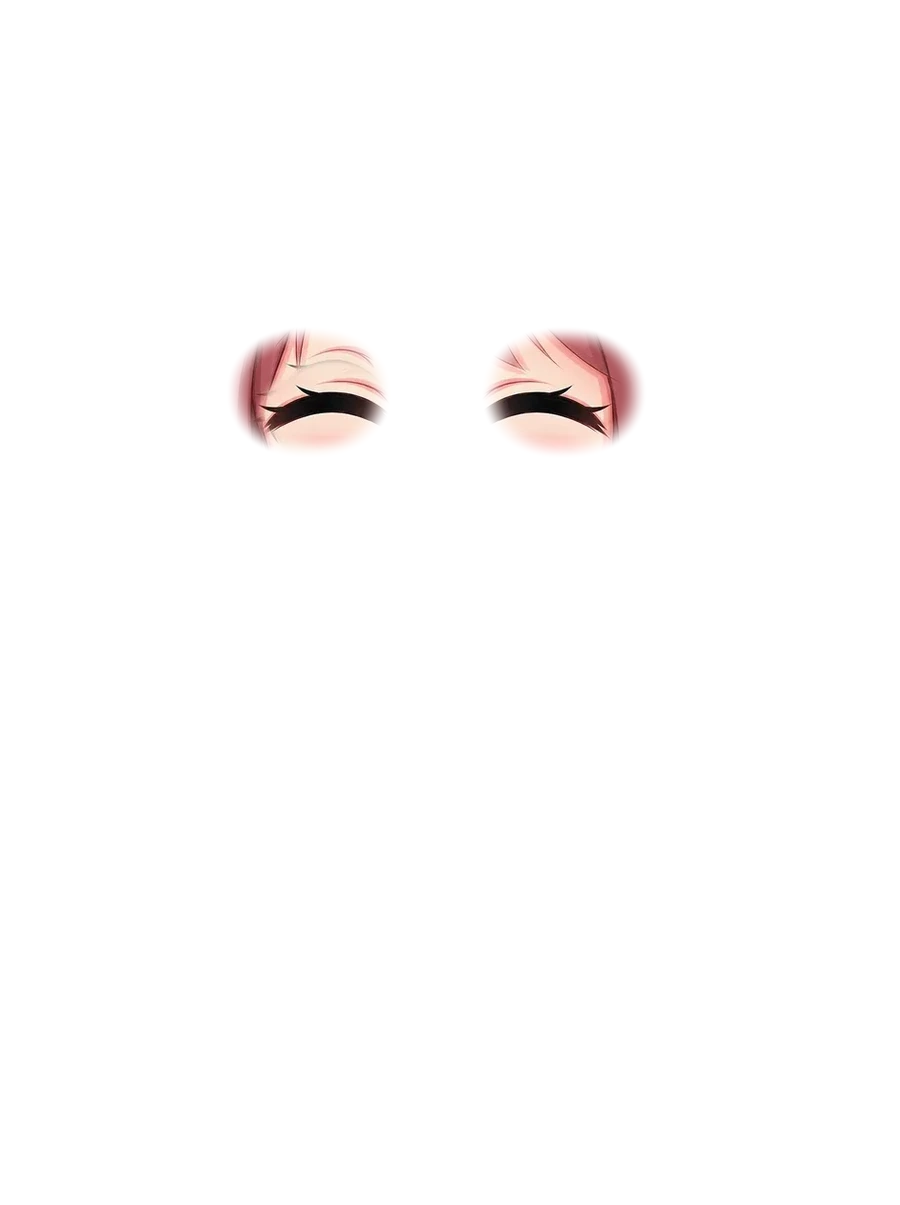
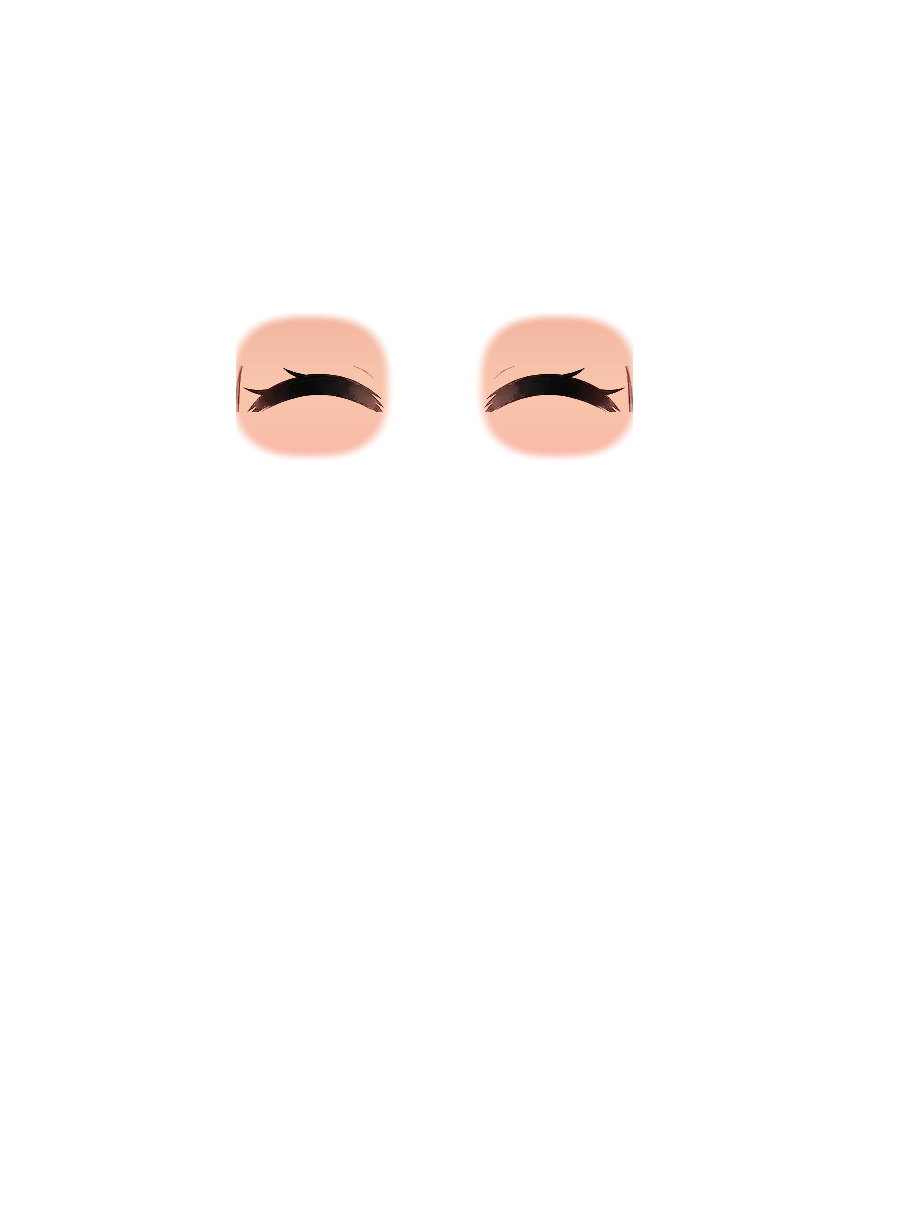
fix(mascot): perbesar kepala miu di mobile login, tutup mata dan balon tidak mengintip saat isi password, serta sempurnakan tekstur mata terpejam chibi

Changed region(s): [[0.5289, 0.2456, 0.7156, 0.3992], [0.2489, 0.2456, 0.4356, 0.3992]]

diff --git a/apps/web/src/features/auth/ui/login.module.css b/apps/web/src/features/auth/ui/login.module.css
@@ -95,7 +95,7 @@
   align-items: center;
   justify-content: space-between;
   width: 100%;
-  margin-bottom: 20px;
+  margin-bottom: 10px;
 }
 
 .mobileHeaderBack {
@@ -144,12 +144,12 @@
   display: flex;
   flex-direction: column;
   align-items: center;
-  margin-bottom: 12px;
+  margin-bottom: 8px;
 }
 
 .mobileAvatarWrap {
-  width: 135px;
-  height: 135px;
+  width: 195px;
+  height: 195px;
   display: flex;
   align-items: center;
   justify-content: center;
@@ -157,7 +157,66 @@
   background: transparent;
   cursor: pointer;
   -webkit-tap-highlight-color: transparent;
-  margin-bottom: 2px;
+  margin-bottom: 0;
+}
+
+.mobileSpeechBubble {
+  background: #FFFFFF;
+  border: 1.5px solid #FFCCD6;
+  border-radius: 18px;
+  padding: 8px 18px;
+  box-shadow: 0 4px 14px rgba(176, 45, 68, 0.08);
+  position: relative;
+  text-align: center;
+  margin-top: -6px;
+  margin-bottom: 12px;
+  max-width: 290px;
+  animation: mobileFloatBubble 2.5s ease-in-out infinite alternate;
+}
+
+.mobileSpeechBubble::before {
+  content: "";
+  position: absolute;
+  top: -7px;
+  left: 50%;
+  transform: translateX(-50%);
+  border-width: 0 7px 7px;
+  border-style: solid;
+  border-color: transparent transparent #FFCCD6;
+}
+
+.mobileSpeechBubble::after {
+  content: "";
+  position: absolute;
+  top: -5px;
+  left: 50%;
+  transform: translateX(-50%);
+  border-width: 0 6px 6px;
+  border-style: solid;
+  border-color: transparent transparent #FFFFFF;
+}
+
+@keyframes mobileFloatBubble {
+  0% { transform: translateY(0); }
+  100% { transform: translateY(-3px); }
+}
+
+.mobileSpeechBubbleJp {
+  font-family: "Zen Maru Gothic", sans-serif;
+  font-size: 15px;
+  font-weight: 800;
+  color: #B02D44;
+  display: block;
+  line-height: 1.25;
+}
+
+.mobileSpeechBubbleId {
+  font-size: 12px;
+  font-weight: 600;
+  color: #6B5A60;
+  display: block;
+  margin-top: 2px;
+  line-height: 1.3;
 }
 
 .mobileMascotText {

diff --git a/apps/web/src/features/auth/ui/LoginForm.tsx b/apps/web/src/features/auth/ui/LoginForm.tsx
@@ -167,7 +167,7 @@ export function LoginForm() {
     : error
     ? "Hmm, coba cek lagi ya"
     : typingPassword
-    ? "Miu tutup mata, aman kok!"
+    ? "Miu tutup mata, tidak mengintip kok! 🙈"
     : "Selamat datang kembali!";
 
   return (
@@ -269,13 +269,16 @@ export function LoginForm() {
             <div className={styles.mobileAvatarWrap}>
               <NekoAvatar
                 mode="idle"
-                emotion={mobileEmotion}
-                size={135}
+                emotion={typingPassword ? "dielus" : mobileEmotion}
+                size={195}
                 onTap={handleMobileMascotTap}
                 label="Miu-chan"
               />
             </div>
-            <p className={styles.mobileMascotText}>おかえり！</p>
+            <div className={styles.mobileSpeechBubble}>
+              <span className={styles.mobileSpeechBubbleJp}>{bubbleJp}</span>
+              <span className={styles.mobileSpeechBubbleId}>{bubbleId}</span>
+            </div>
           </div>
 
           {/* Form Utama (Shared Mobile & Desktop) */}
